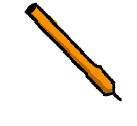
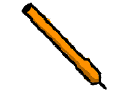
cursore git push origin main git add . git commit -m cursore git add .

Changed region(s): [[0.1736, 0.0, 0.8926, 0.8304]]

diff --git a/style.css b/style.css
@@ -38,15 +38,29 @@ body {
     overflow-x: hidden;
     overflow-y: auto;
     scroll-behavior: smooth;
-    cursor: url("Images/Intro_ii/matita_cursore.png") 23 23, auto;
 }
 
 body {
     display: block;
-    margin: 0;
-    padding: 0;
-    -webkit-font-smoothing: antialiased
+    -webkit-font-smoothing: antialiased;
+    cursor: none;
 }
+
+/* Stile del cursore personalizzato */
+#cursor {
+    position: fixed;       /* rimane fisso sulla finestra */
+    width: 70px;           /* larghezza desiderata della matita */
+    height: 70px;          /* mantiene proporzioni */
+    pointer-events: none;  /* permette di cliccare sotto */
+    background-image: url('Images/Intro_ii/matita_cursore.png');
+    background-size: contain;
+    background-repeat: no-repeat;
+    background-position: center;
+    z-index: 9999;         /* sopra tutti gli elementi */
+    transform: translate(-80%, -80%); /* per centrare il pivot */
+    transition: transform 0.05s linear; /* optional, per movimento fluido */
+}
+
 
 /* Titilliumweb Light */
 @font-face {
@@ -478,12 +492,22 @@ a:hover {
 }
 
 .scroll-arrow {
-  display: none;
+    display: none;
 }
 
 @keyframes float {
-  0%, 100% { transform: translateY(-60%); } /* centro verticale */
-  50% { transform: translateY(-45%); }      /* spostamento leggero verso l'alto */
+
+    0%,
+    100% {
+        transform: translateY(-60%);
+    }
+
+    /* centro verticale */
+    50% {
+        transform: translateY(-45%);
+    }
+
+    /* spostamento leggero verso l'alto */
 }
 
 
@@ -569,7 +593,7 @@ a:hover {
 /* Medium devices (tablets, 768px and up) */
 @media (min-width: 768px) {
 
-.br992 {
+    .br992 {
         display: none;
     }
 
@@ -673,17 +697,23 @@ a:hover {
         display: none;
     }
 
-.scroll-arrow {
-    display: block;           
-    position: fixed;          /* resta visibile durante lo scroll */
-    top: 80%;                 /* centro verticale */
-    transform: translateY(-50%); /* corregge il posizionamento verticale */
-    right: 3rem;              /* distanza dal bordo destro */
-    width: 13px;               /* circa un terzo della dimensione originale, aggiusta come vuoi */
-    height: auto;
-    cursor: pointer;
-    animation: float 2s ease-in-out infinite; /* animazione continua */
-  }
+    .scroll-arrow {
+        display: block;
+        position: fixed;
+        /* resta visibile durante lo scroll */
+        top: 85%;
+        /* centro verticale */
+        transform: translateY(-50%);
+        /* corregge il posizionamento verticale */
+        right: 3rem;
+        /* distanza dal bordo destro */
+        width: 11px;
+        /* circa un terzo della dimensione originale, aggiusta come vuoi */
+        height: auto;
+        cursor: pointer;
+        animation: float 2s ease-in-out infinite;
+        /* animazione continua */
+    }
 
     h1 {
         font-size: 5rem;
@@ -944,10 +974,12 @@ a:hover {
         display: none;
     }
 
-  .scroll-arrow {
-    right: 3rem;             /* più spazio a destra sui desktop grandi */
-    width: 15px;               /* leggermente più grande se vuoi */
-  }
+    .scroll-arrow {
+        right: 3rem;
+        /* più spazio a destra sui desktop grandi */
+        width: 11px;
+        /* leggermente più grande se vuoi */
+    }
 
     h1 {
         font-size: 6rem;

diff --git a/index.html b/index.html
@@ -19,6 +19,8 @@
     </dotlottie-player>
   </div>
 
+  <div id="cursor"></div>
+
   <div class="header">
     <div class="logocontainer">
       <a href="index.html">
@@ -31,7 +33,7 @@
     <p><a href="Progetti.html">Progetti</a></p>
   </div>
 
-<img src="Images/Intro_ii/freccia.png" alt="Scroll Down" class="scroll-arrow">
+  <img src="Images/Intro_ii/freccia.png" alt="Scroll Down" class="scroll-arrow">
 
   <div class="struttura">
 
@@ -76,6 +78,22 @@
   </div>
 
   </div>
+
+  <script>
+
+    const cursor = document.getElementById('cursor');
+
+    document.addEventListener('mousemove', e => {
+      const mouseX = e.clientX;
+      const mouseY = e.clientY;
+
+      // aggiorna posizione del cursore
+      cursor.style.left = mouseX + 'px';
+      cursor.style.top = mouseY + 'px';
+    });
+  </script>
+
+
 
   <script>
     document.addEventListener("DOMContentLoaded", () => {
